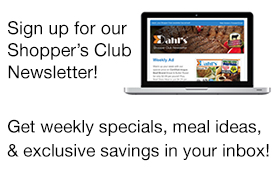
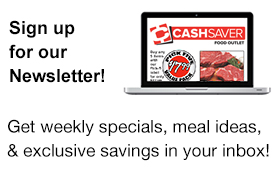
Dahls Website Changing to a CashSaver website. re #247

diff --git a/asset/281/views/menu.html b/asset/281/views/menu.html
@@ -17,7 +17,7 @@
             <ul class="dropdown-menu dropdown-menuSilver">
                 <li><a data-ng-href="/pharmacyservices">Pharmacy Services</a></li>
                 <li><a data-ng-href="/prescriptions">Prescription Refills</a></li>
-                <li><a data-ng-href="/pharmacytips">Tips From Your Dahl’s Pharmacist</a></li>
+                <li><a data-ng-href="/pharmacytips">Tips From Your Pharmacist</a></li>
                 <li><a data-ng-href="/pharmacygenerics">$4 Rx Generics</a></li>
                 <li><a data-ng-href="/takeshapeforlife">Take Shape for Life</a></li>
             </ul>
@@ -27,7 +27,6 @@
             <ul class="dropdown-menu dropdown-menuSilver">
                 <li><a data-ng-href="/recipecenter">Recipe Center</a></li>
                 <li class="visible-lg visible-md"><a data-ng-href="/recipevideo">Cooking Videos</a></li>
-                <li><a data-ng-href="/catering">Catering</a></li>
                 <li><a data-ng-href="/winespirits">Wine &amp; Spirits</a></li>
                 <li><a data-ng-href="/cafe">Café</a></li>
             </ul>
@@ -35,7 +34,6 @@
         <li class="dropdown" dropdown>
             <a class="dropdown-toggle" data-toggle="dropdown" data-ng-class="{'active': '/placeholder,/coupons/printable,/couponpolicy'.indexOf(currentPath) > 0 }" data-toggle="dropdown"  href="javascript:void(0)"><i class="fa faSilver fa-caret-down pull-right"></i>Ways to Save</a>
             <ul class="dropdown-menu dropdown-menuSilver">
-                <li><a data-ng-href="/clubcard">Loyalty Card</a></li>
                 <li><a data-ng-href="/circular">Weekly Ad</a></li>
                 <li><a data-ng-href="/mylist">Shopping List</a></li>
                 <li><a data-ng-href="/promotions">Promotions</a></li>
@@ -49,9 +47,6 @@
         <li class="dropdown" dropdown>
             <a class="dropdown-toggle" data-toggle="dropdown" data-ng-class="{'active': '/placeholder,/coupons/printable,/couponpolicy'.indexOf(currentPath) > 0 }" data-toggle="dropdown"  href="javascript:void(0)"><i class="fa faSilver fa-caret-down pull-right"></i>Community</a>
             <ul class="dropdown-menu dropdown-menuSilver">
-                <li><a data-ng-href="/events">Upcoming Events</a></li>
-                <li><a data-ng-href="/giveahoot">Give a Hoot</a></li>
-                <li><a data-ng-href="/tickets">Dahl's Tickets</a></li>
                 <li><a data-ng-href="/schoolprograms">School Programs</a></li>
             </ul>
         </li>

diff --git a/asset/281/views/home.html b/asset/281/views/home.html
@@ -82,14 +82,15 @@
           <a href="/tickets">
             <img data-ng-src="{{getContentUrl('/images/tickets.jpg')}}" alt="" class="" style="width: 100%;" />
             <div class="row">
-              <div class="col-md-3">
+              <div class="col-md-4">
 
-                <h3>Dahl's
-                  <br />
-                  Tickets</h3>
+                <h3>No Card or<br />
+					Membership<br />
+					Required
+                </h3>
               </div>
-              <div class="col-md-9">
-                <p>Looking for tickets to concerts, family shows, sports or other events in the area? Visit your favorite Dahl's store ticket outlet or buy online. Find more information on the Dahl's Tickets page.</p>
+              <div class="col-md-8">
+                <p>We price every item at cost, then add just 10% at the checkout! Product cost is determined by the expense it takes to buy and get it from our suppliers to the shelf.</p>
               </div>
             </div>
           </a>
@@ -98,9 +99,9 @@
       <div class="col-md-4">
         <div class="storeFeatureMiddle">
           <a href="/catering">
-            <img data-ng-src="{{getContentUrl('/images/catering.jpg')}}" alt="" class="" />
-            <h3>Catering</h3>
-            <p>Let us help you create the perfect menu for your event. Choose from our breakfast, lunch, dinner, grilled and smoked, appetizers or party platter menus.</p>
+            <img data-ng-src="{{getContentUrl('/images/saveon.jpg')}}" alt="" class="" />
+            <h3>Save on Meat</h3>
+            <p>Buy any 5 items with our Pick-5 Label for only $17.99 plus 10% added at checkout.</p>
           </a>
         </div>
       </div>

diff --git a/asset/281/views/layout-header.html b/asset/281/views/layout-header.html
@@ -26,10 +26,8 @@
 </div>
 <div class="col-md-6">
 <ul class="socialMedia pull-right">
-   <li><a data-ng-href="https://www.facebook.com/dahlsfoods" target="_blank"><img data-ng-src="{{getContentUrl('/images/social/facebook_icon.png')}}" alt="facebook" class="socialIcon" /></a></li>
-   <li><a data-ng-href="http://www.pinterest.com/dahlsfoods/" target="_blank"><img data-ng-src="{{getContentUrl('/images/social/pinterest_icon.png')}}" alt="pinterest" class="socialIcon" /></a></li>
-   <li><a data-ng-href="https://twitter.com/dahlsdeals" target="_blank"><img data-ng-src="{{getContentUrl('/images/social/twitter_icon.png')}}" alt="twitter" class="socialIcon" /></a></li>
-   <li><a data-ng-href="https://www.youtube.com/user/dahls1931?feature=mhee" target="_blank"><img data-ng-src="{{getContentUrl('/images/social/youTube_icon.png')}}" alt="You Tube" class="socialIcon" /></a></li>
+   <li><a data-ng-href="https://www.facebook.com/mycashsaver" target="_blank"><img data-ng-src="{{getContentUrl('/images/social/facebook_icon.png')}}" alt="facebook" class="socialIcon" /></a></li>
+   <li><a data-ng-href="https://twitter.com/mycashsaver" target="_blank"><img data-ng-src="{{getContentUrl('/images/social/twitter_icon.png')}}" alt="twitter" class="socialIcon" /></a></li>
 </ul>    
 </div>
 </div>

diff --git a/asset/281/views/engine/employment.html b/asset/281/views/engine/employment.html
@@ -1,7 +1,7 @@
 <div class="row col-md-12" data-ctrl-silver-employment="">
   <div class="Employment-Header">
     <h2>Careers</h2>
-    <p>At {{ChainName}}, we offer all of our employees flexible scheduling in a fun and clean environment. We are always looking for motivated, energetic people to join our team! Browse this page to learn about career opportunities currently available at {{ChainName}}.</p>
+    <p>We offer all of our employees flexible scheduling in a fun and clean environment. We are always looking for motivated, energetic people to join our team! Browse this page to learn about career opportunities currently available.</p>
     <h2>Positions Available</h2>
     <div data-ng-show="hasJobs() > 0">
       <p>We're looking for talented, passionate people in the following areas:</p>

diff --git a/asset/281/views/layout-footer.html b/asset/281/views/layout-footer.html
@@ -1,6 +1,6 @@
 <div class="row footerBar">
    <ul>
-   	<li><a data-ng-href="/about">About Dahl's</a></li>
+   	<li><a data-ng-href="/about">About Us</a></li>
    	<li><a data-ng-href="/contact">Contact Us/Product Request</a></li>
    	<li><a data-ng-href="/careers">Careers</a></li>
    	<li><a data-ng-href="/privacy">Privacy Policy</a></li>
@@ -8,5 +8,5 @@
    </ul>
 </div>
 <div class="copyrightBar">
-	Copyright © 2014
+	Copyright © 2015
 </div>

diff --git a/asset/281/styles/app.css b/asset/281/styles/app.css
@@ -138,7 +138,7 @@ ul
 
 .logoBar
 {
-  background-color: #0085ca;
+  background-color: #ffffff;
 }
 
 .socialMedia li
@@ -1663,6 +1663,10 @@ textarea
 }
 .rewards-outer  .buttons button:last-child{
 	float: right;
+}
+
+.subFeature  .storeFeatureLeft h3{
+	margin-top: 0px;
 }
 /*---------- Media Queries ----------*/
 @media only screen and (min-device-width: 320px) and (max-device-width: 480px) {
